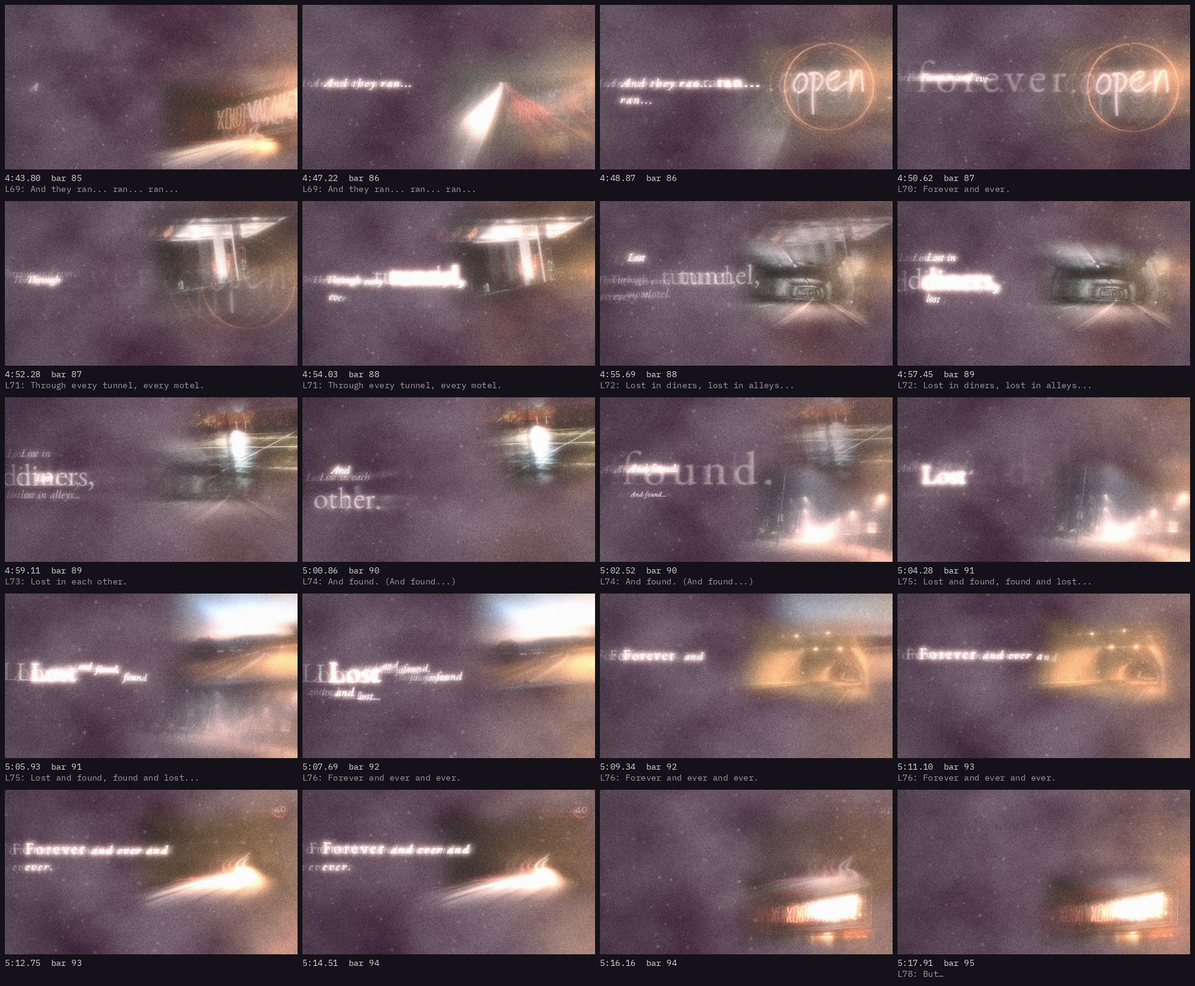
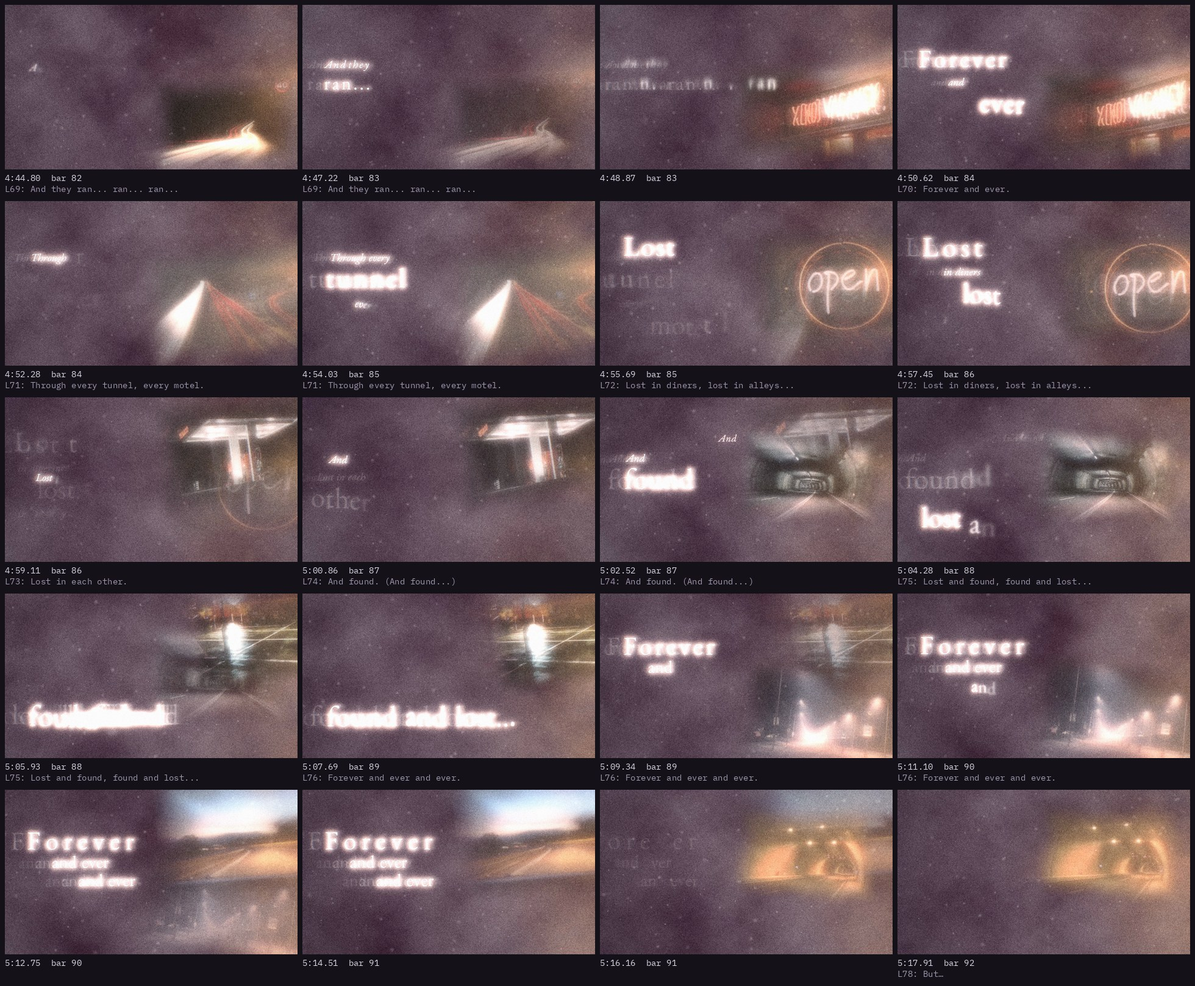
The Run: lighter sideways trails; sliding title words fainter mid-crossing
Claude-Session: https://claude.ai/code/session_013aPae8dR11r7xw8o95d9Yi

diff --git a/video/kinetic.py b/video/kinetic.py
@@ -724,8 +724,10 @@ class Kinetic:
                     px = o["x"] + xs[i] + drift_x
                     if o.get("slide"):                      # sliding into its twin's place,
                         sdx, st0, sdur = o["slide"]          # fading as it arrives
-                        px += sdx * smooth(clamp01((t - st0) / sdur))
-                        a *= 1 - smooth(clamp01((t - st0 - sdur * 0.55) / (sdur * 0.5)))
+                        mv = smooth(clamp01((t - st0) / sdur))
+                        px += sdx * mv
+                        a *= (1 - 0.5 * math.sin(math.pi * mv)) * \
+                            (1 - smooth(clamp01((t - st0 - sdur * 0.55) / (sdur * 0.5))))
                     if o.get("split"):                      # peels away and drifts, slowly
                         g = t - w["start"]
                         px += 95 * ease_out(clamp01(g / 3.5), 2)

diff --git a/video/sections.py b/video/sections.py
@@ -102,7 +102,7 @@ POST = {
                       ghosts=((0.8, -60, 0, 0, 0.14), (1.6, 60, 0, 0, 0.08))),
     "run": dict(exposure=1.1, lift=0.06, sat=1.0, bloom=0.95, hal=0.9, thresh=0.55,
                 diffusion=0.18, grain=0.06, trail=0.55, shadow="#2E2436",
-                ghosts=((0.6, -110, 0, 0, 0.10), (1.2, -220, 0, 0, 0.05))),
+                ghosts=((0.6, -110, 0, 0, 0.05), (1.2, -220, 0, 0, 0.025))),   # trails, kept legible
     "bleach": dict(exposure=1.0, lift=0.1, sat=0.7, bloom=0.4, hal=0.4, thresh=1.05,
                    diffusion=0.2, grain=0.045, trail=0.66,
                    ghosts=((1.4, -120, 0, -3, 0.12), (2.8, 110, 0, 3, 0.08))),
